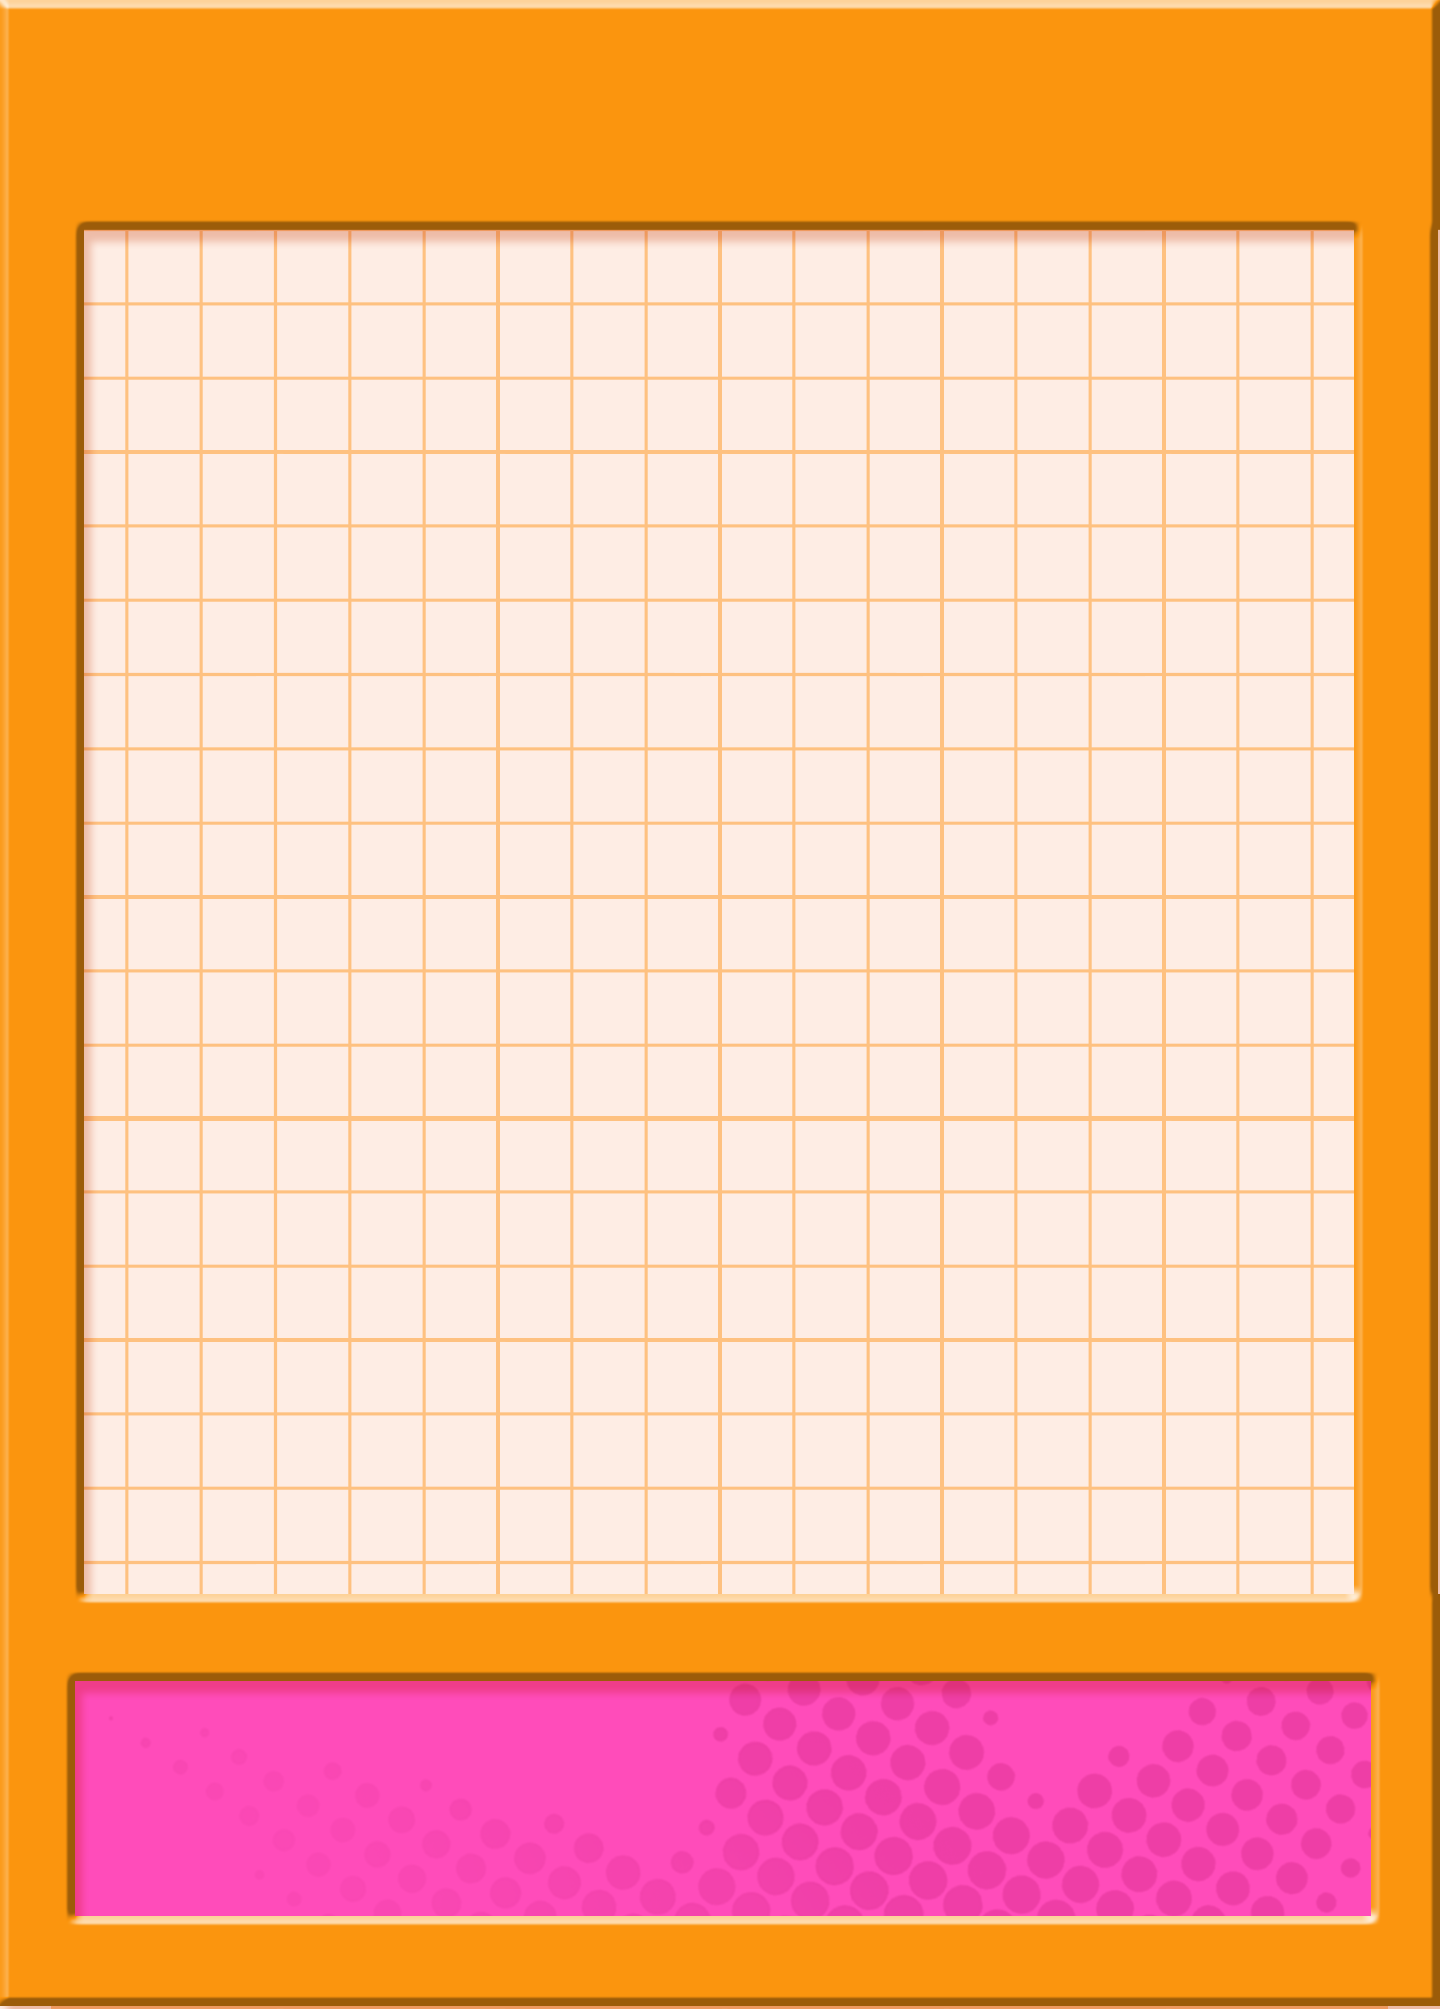
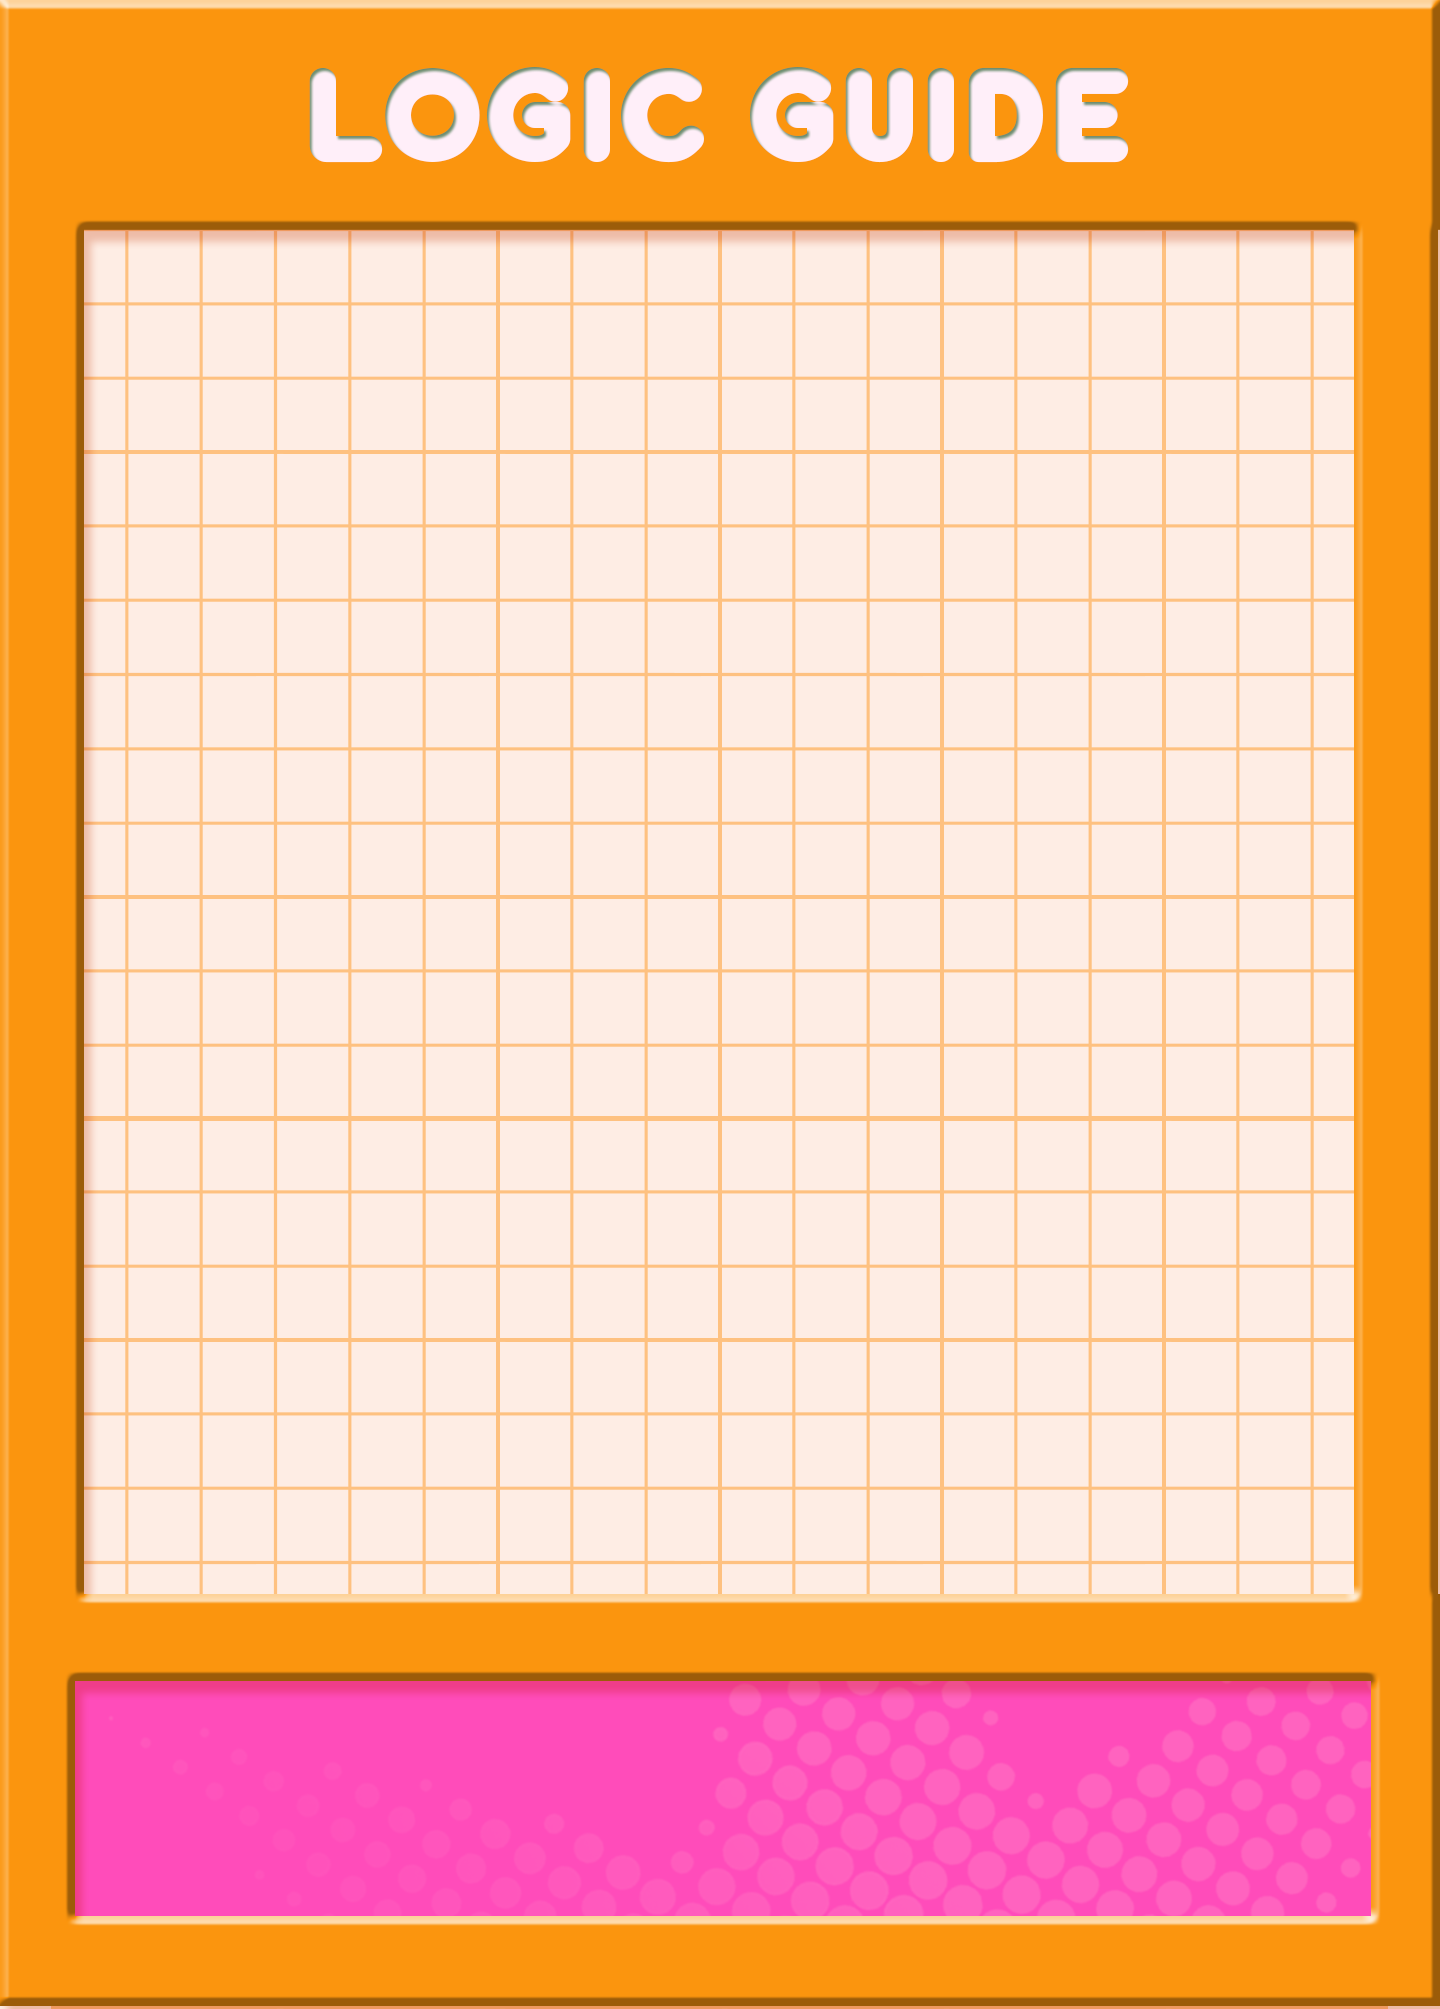
placeholder page for logic guide

Changed region(s): [[0.4688, 0.8333, 0.9688, 0.9567], [0.1875, 0.0309, 0.7812, 0.0926]]

diff --git a/lib/features/guide/presentation/pages/logic_guide_page.dart b/lib/features/guide/presentation/pages/logic_guide_page.dart
@@ -1,9 +1,6 @@
 import 'package:flutter/material.dart';
-import 'package:flutter/services.dart';
 import '../../../../core/constants/app_assets.dart';
-import '../../../../core/navigation/app_routes.dart';
 import '../../../../core/theme/app_colors.dart';
-import '../../../../shared/widgets/beveled_menu_button.dart';
 import '../../../../shared/widgets/game_menu_background.dart';
 
 class LogicGuidePage extends StatelessWidget {
@@ -13,37 +10,66 @@ class LogicGuidePage extends StatelessWidget {
   Widget build(BuildContext context) {
     final size = MediaQuery.of(context).size;
 
-    const double btnWidth = 300;
-    const double btnHeight = 70;
-    const double btnFontSize = 28;
-    const double btnGap = 10;
-    const Color btnTextColor = Colors.white;
-
     return Scaffold(
       body: GameMenuBackground(
         backgroundColor: AppColors.pinkBg,
         useGrid: false,
         child: SingleChildScrollView(
-          child: SingleChildScrollView(
-            child: ConstrainedBox(
-              constraints: const BoxConstraints(maxWidth: 420),
-              child: Column(
-                children: [
-
-                  const SizedBox(height: 100),
-
-                  Image.asset(
-                    AppAssets.diagramContainerPink,
-                    width: size.width ,
-                  ),
-
-                  const SizedBox(height: 50),
-
-
-
-                ],
+          child: Column(
+            children: [
+              // const SizedBox(height: 20),
+              
+              // row with Back and Sound buttons
+              Padding(
+                padding: const EdgeInsets.symmetric(horizontal: 10),
+                child: Row(
+                  mainAxisAlignment: MainAxisAlignment.spaceBetween,
+                  children: [
+                    IconButton(
+                      icon: Image.asset(AppAssets.backBtn, width: 30),
+                      onPressed: () => Navigator.pop(context),
+                    ),
+                    IconButton(
+                      icon: Image.asset(AppAssets.soundOn, width: 32),
+                      onPressed: () {
+                        // sound toggle placeholder -- not working pa
+                      },
+                    ),
+                  ],
+                ),
               ),
-            ),
+
+              //const SizedBox(height: 20),
+
+              // diagram container for logic guide
+              Image.asset(
+                AppAssets.diagramContainerPink,
+                width: size.width,
+              ),
+
+              const SizedBox(height: 20),
+
+              // beige rectangle container under diagram -- for explanation content
+              Padding(
+                padding: const EdgeInsets.symmetric(horizontal: 20),
+                child: Container(
+                  width: double.infinity,
+                  height: 200,
+                  decoration: BoxDecoration(
+                    color: AppColors.beigeBg,
+                    borderRadius: BorderRadius.circular(5),
+                  ),
+                  child: const Center(
+                    child: Text(
+                      'logic kemerut explanations here',
+                      style: TextStyle(fontSize: 18),
+                    ),
+                  ),
+                ),
+              ),
+
+              const SizedBox(height: 50),
+            ],
           ),
         ),
       ),

diff --git a/lib/core/constants/app_assets.dart b/lib/core/constants/app_assets.dart
@@ -8,6 +8,7 @@ class AppAssets {
   static const diagramContainerPink = 'assets/images/shared/diagram-container-pink.png';
   static const soundOn = 'assets/images/shared/sound-on.png';
   static const soundOff = 'assets/images/shared/sound-off.png';
+  static const backBtn = 'assets/images/shared/back-btn.png';
   static const star1 = 'assets/images/shared/star1.png';
   static const star2 = 'assets/images/shared/star2.png';
   static const star3 = 'assets/images/shared/star3.png';

diff --git a/lib/core/theme/app_colors.dart b/lib/core/theme/app_colors.dart
@@ -6,6 +6,7 @@ class AppColors {
   static const orangeBg = Color(0xFFFF7F0F);
   static const purpleBg = Color(0xFFA03BFF);
   static const pinkBg = Color(0xFFFF4CBA);
+  static const beigeBg = Color(0xFFFEEDE4);
   static const yellowButton = Color(0xFFF6B700);
   static const orangeButton = Color(0xFFFF8017);
   static const darkOrangeButton = Color(0xFFEF7711);
